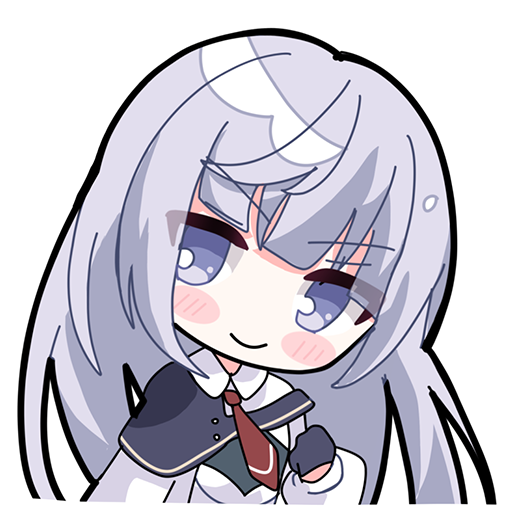
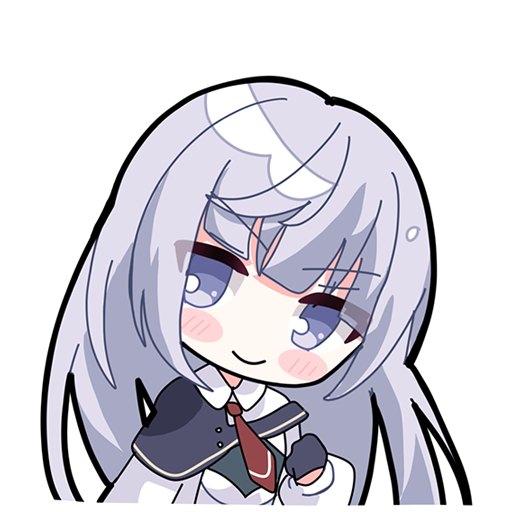
修复了若干问题

diff --git a/src/App.tsx b/src/App.tsx
@@ -116,7 +116,7 @@ function App() {
   const [shortcutsOpen, setShortcutsOpen] = useState(false);
   const [infoOpen, setInfoOpen] = useState(false);
 
-  const [character, setCharacter] = useState(2); // 默认角色（Hikari）
+  const [character, setCharacter] = useState(3); // 默认角色（Hikari）
 
   const initialText2 = typedCharacters[character].defaultText.text2 || "";
   const initialAutoSplit = typedCharacters[character].defaultText.text2 === undefined;
@@ -644,12 +644,30 @@ function App() {
   // 全局快捷键监听
   useEffect(() => {
     const handleKeyDown = (e: KeyboardEvent) => {
-      // 焦点在文本框时不触发快捷键
+      const isCmdOrCtrl = e.metaKey || e.ctrlKey;
+
+      // 打开快捷键帮助 (F1)
+      if (e.key === 'F1') {
+        e.preventDefault();
+        setShortcutsOpen(true);
+      }
+
+      // 打开关于信息 (F2)
+      if (e.key === 'F2') {
+        e.preventDefault();
+        setInfoOpen(true);
+      }
+
+      // 重置 (Ctrl/Cmd + R)
+      if (isCmdOrCtrl && e.key.toLowerCase() === 'r') {
+        e.preventDefault();
+        resetToCurrentCharacterDefault();
+      }
+
+      // 焦点在文本框时不触发以下快捷键
       const activeTag = document.activeElement?.tagName.toLowerCase();
       if (activeTag === 'input' || activeTag === 'textarea' || activeTag === 'select')
         return;
-
-      const isCmdOrCtrl = e.metaKey || e.ctrlKey;
 
       // 复制 (Ctrl/Cmd + C)
       if (isCmdOrCtrl && e.key.toLowerCase() === 'c') {
@@ -673,12 +691,6 @@ function App() {
       if (isCmdOrCtrl && ((e.key.toLowerCase() === 'z' && e.shiftKey) || e.key.toLowerCase() === 'y')) {
         e.preventDefault();
         handleRedo();
-      }
-
-      // 重置 (Ctrl/Cmd + R)
-      if (isCmdOrCtrl && e.key.toLowerCase() === 'r') {
-        e.preventDefault();
-        resetToCurrentCharacterDefault();
       }
 
       // 方向键调整位置 (步长 1，Shift 步长 5)

diff --git a/src/components/ShortcutsHelp.tsx b/src/components/ShortcutsHelp.tsx
@@ -70,7 +70,7 @@ const shortcutsData: ShortcutItem[] = [
       { mods: ["Ctrl", "Shift"], key: "Z" },
     ],
   },
-  { desc: "重置当前角色默认值", combinations: [{ mods: ["Ctrl"], key: "R" }] },
+  { desc: "重置为当前角色默认值", combinations: [{ mods: ["Ctrl"], key: "R" }] },
   { desc: "微调文字位置 (1px)", combinations: [{ mods: [], key: "↑ ↓ ← →" }] },
   { desc: "移动文字位置 (5px)", combinations: [{ mods: ["Shift"], key: "↑ ↓ ← →" }] },
   { desc: "调整字号", combinations: [{ mods: [], key: "+ / -" }] },